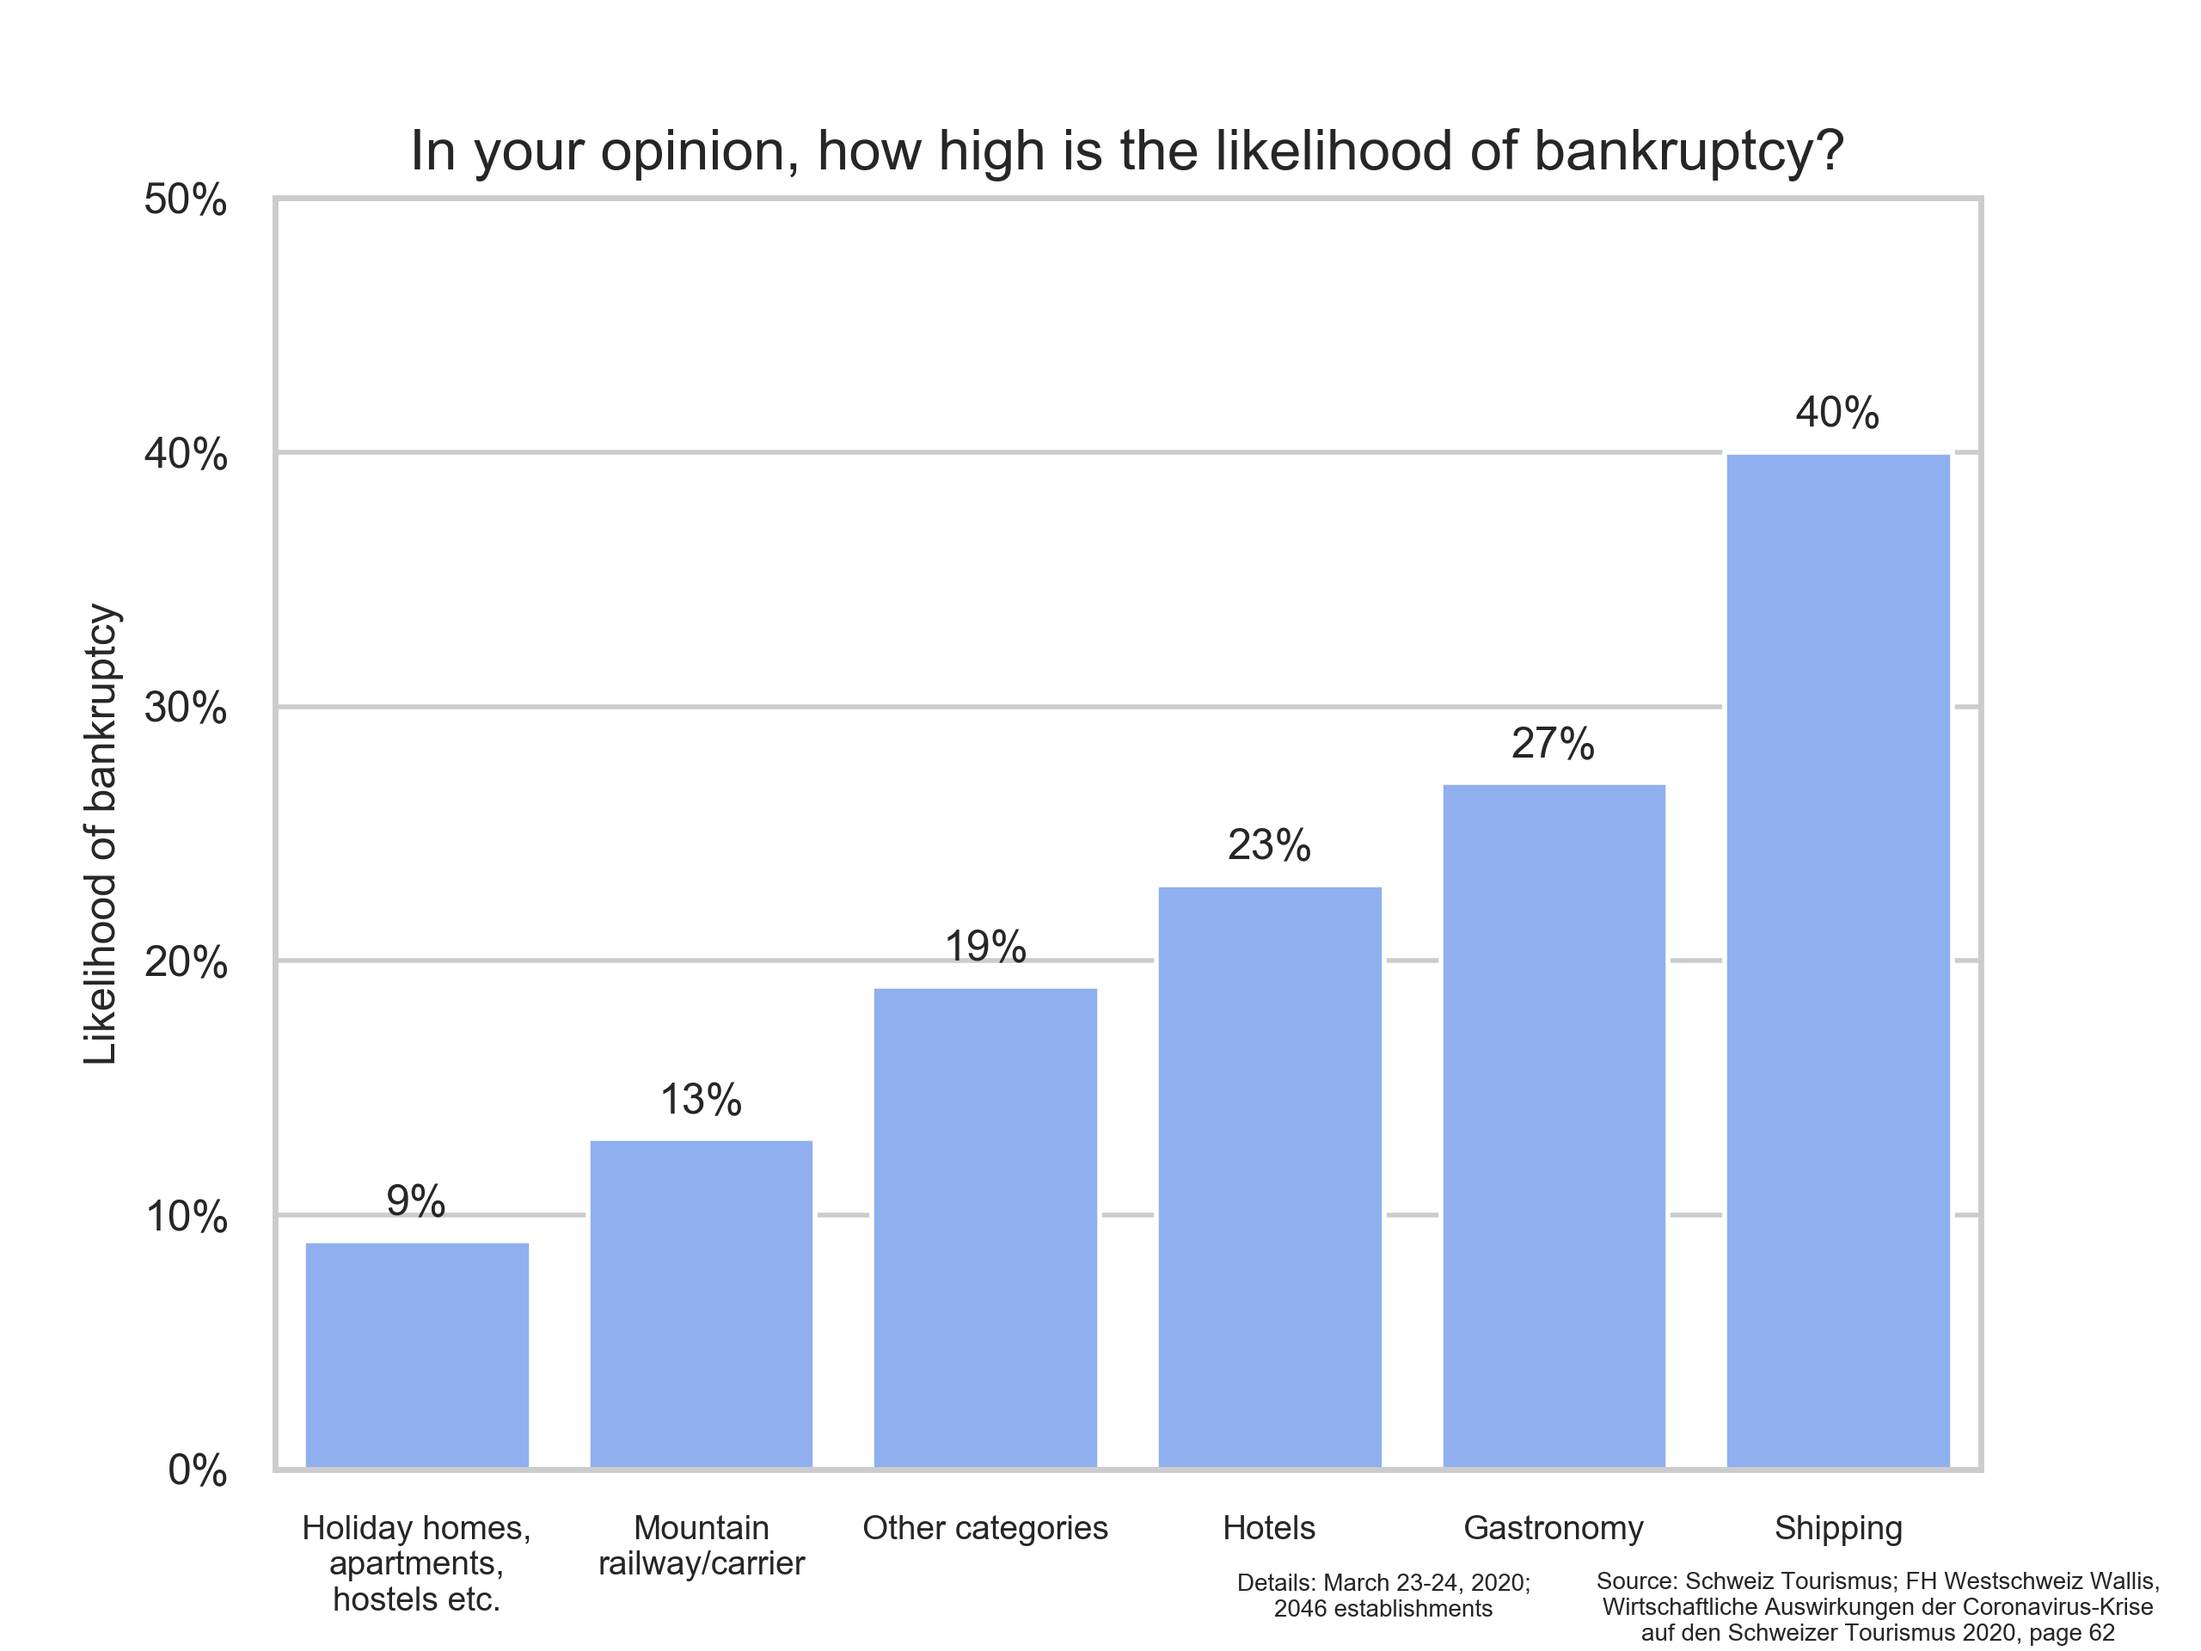
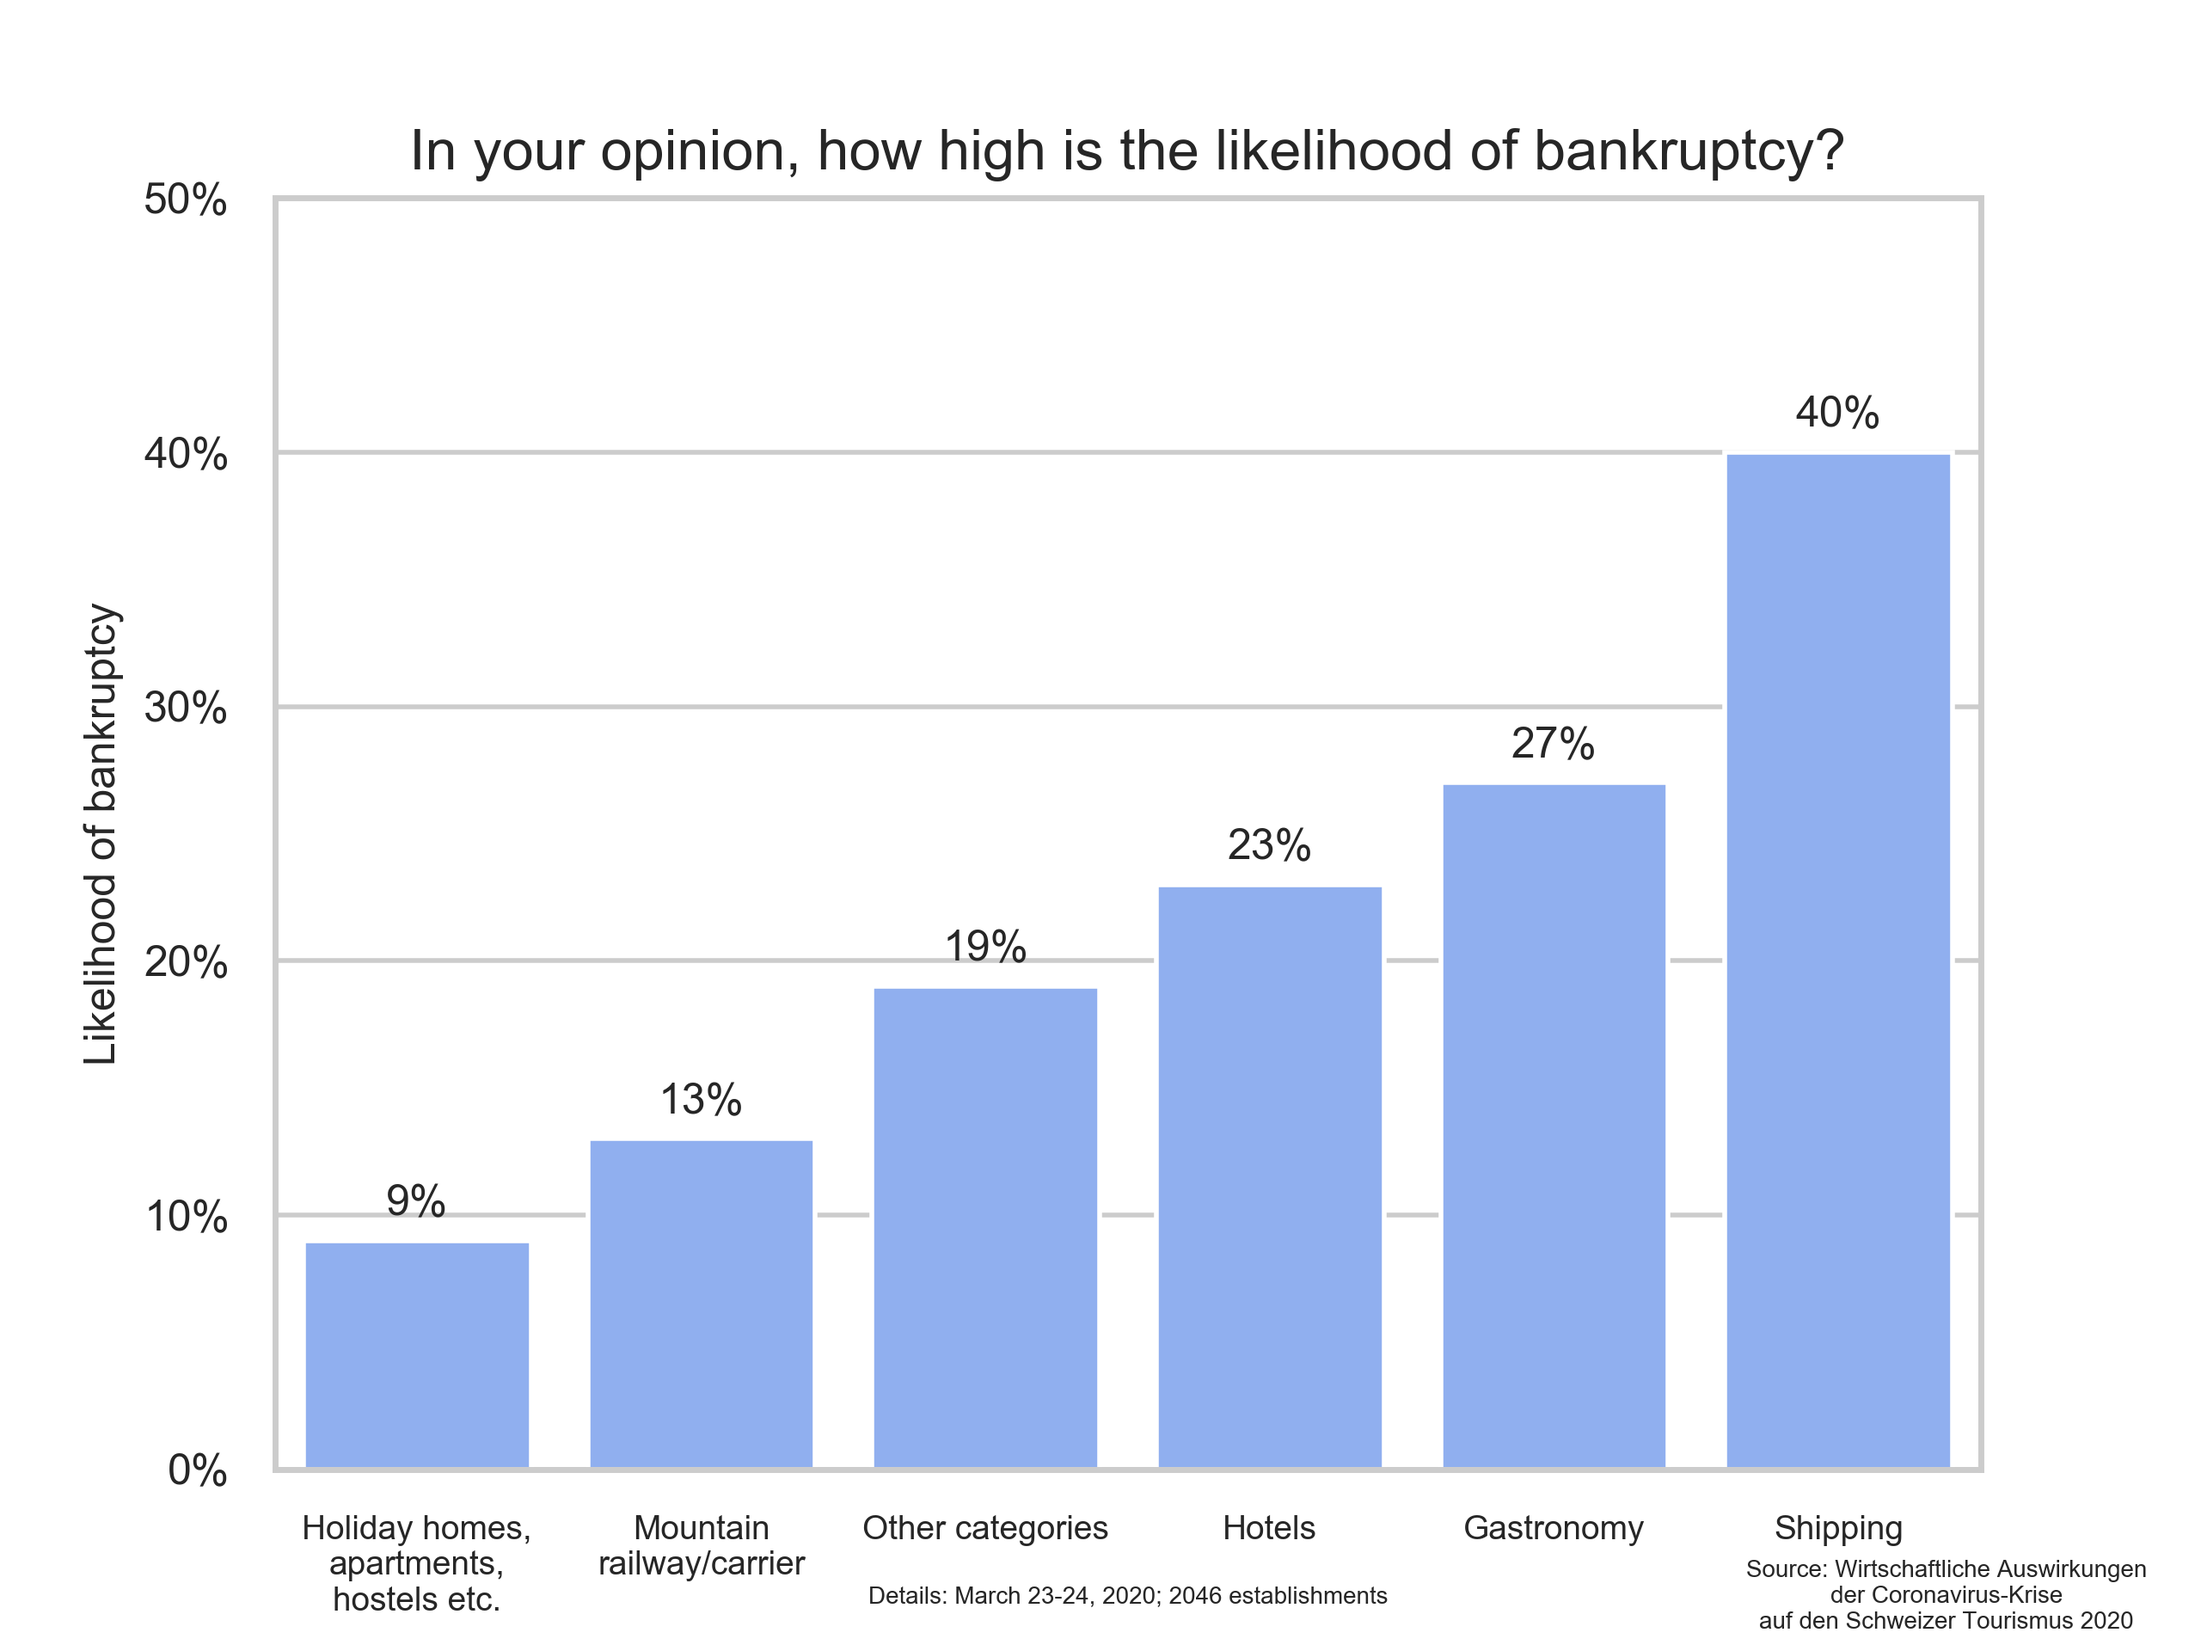
up

Changed region(s): [[0.7188, 0.9375, 0.9688, 1.0], [0.5312, 0.9375, 0.6875, 1.0]]

diff --git a/peter_work_in_progress/survey_bankruptcy.py b/peter_work_in_progress/survey_bankruptcy.py
@@ -23,13 +23,13 @@ for p in ax.patches:
             height + 1, str(int(height))+'%',
             ha="center", size=9)
 
-plt.text(0.94, -0.11, 'Source: Schweiz Tourismus; FH Westschweiz Wallis,\n'
-                      'Wirtschaftliche Auswirkungen der Coronavirus-Krise\n'
-                      'auf den Schweizer Tourismus 2020, page 62',
+plt.text(0.98, -0.1, 'Source: Wirtschaftliche Auswirkungen\n'
+                      'der Coronavirus-Krise\n'
+                      'auf den Schweizer Tourismus 2020',
          horizontalalignment='center',
          verticalalignment='center', transform=ax.transAxes, size=5)
 
-plt.text(0.65, -0.101, 'Details: March 23-24, 2020;\n2046 establishments',
+plt.text(0.5, -0.101, 'Details: March 23-24, 2020; 2046 establishments',
          horizontalalignment='center',
          verticalalignment='center', transform=ax.transAxes, size=5)
 

diff --git a/peter_work_in_progress/survey_leadership.py b/peter_work_in_progress/survey_leadership.py
@@ -20,7 +20,7 @@ for p in ax.patches:
             height + 1, str(int(height))+'%',
             ha="center", size=9)
 
-plt.text(0.82, -0.11, 'Source: SRG SSR, Die Schweiz und die Corona-Krise, page 29',
+plt.text(0.82, -0.11, 'Source: SRG SSR, Die Schweiz und die Corona-Krise',
          horizontalalignment='center',
          verticalalignment='center', transform=ax.transAxes, size=7)
 
